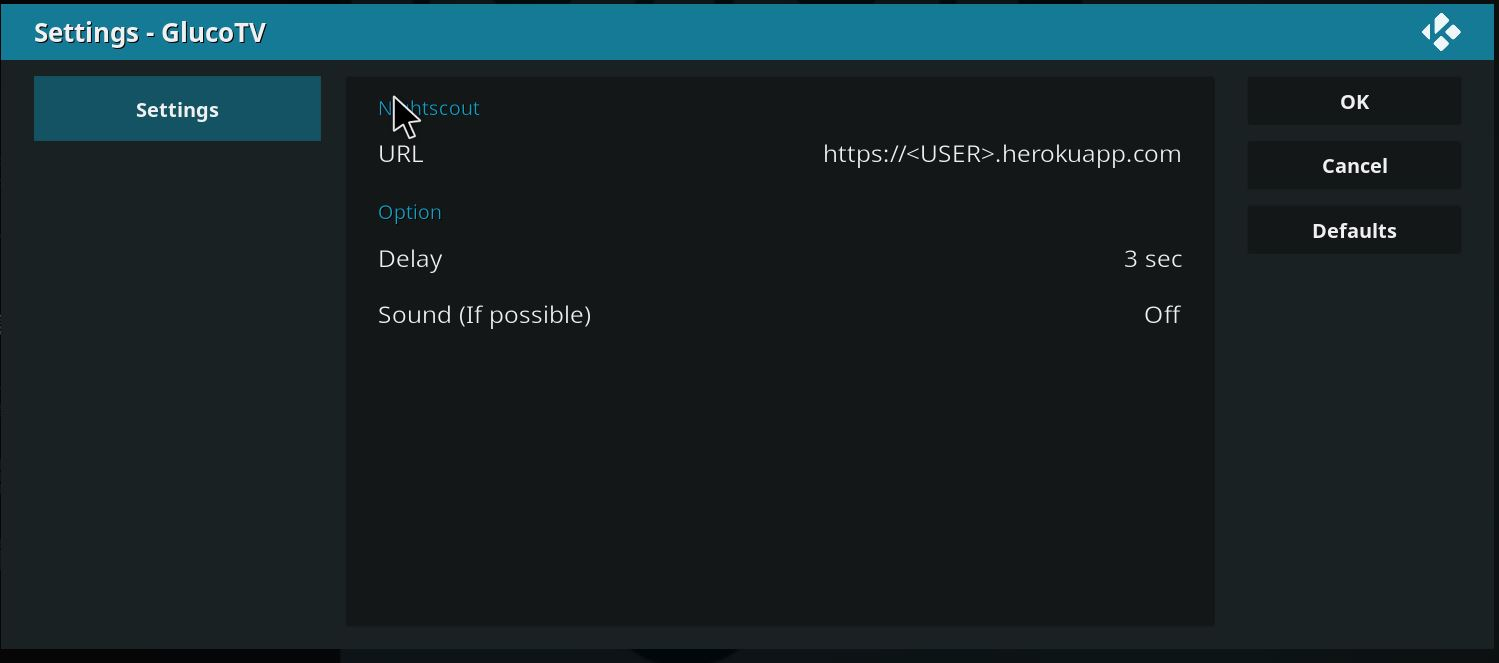
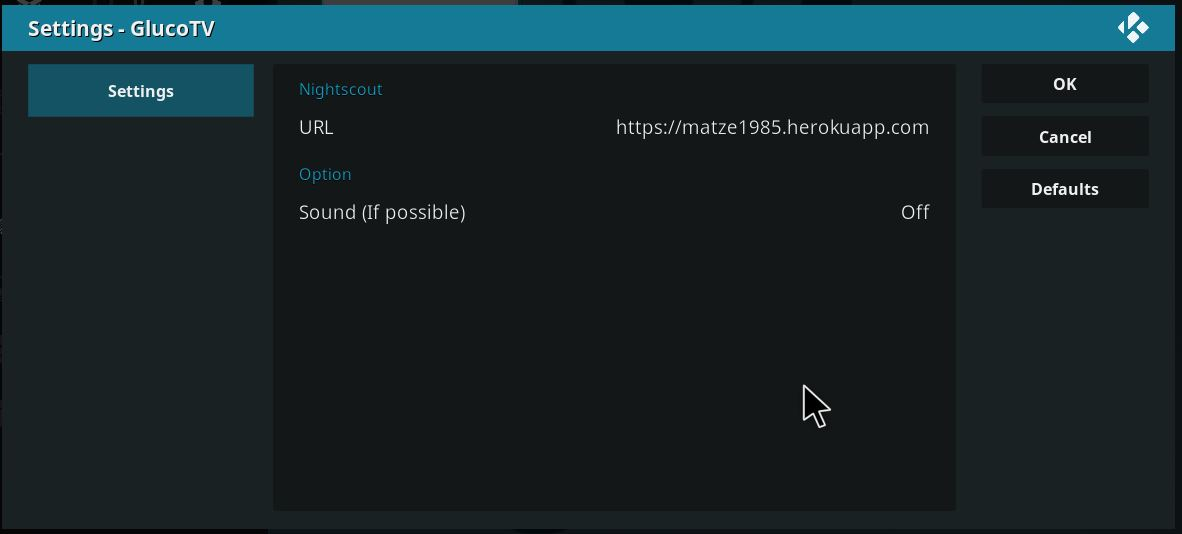
Version 0.1.1 * Better update interval for glucose

diff --git a/script.glucotv/addon.py b/script.glucotv/addon.py
@@ -2,7 +2,7 @@
 # -*- coding: utf-8 -*-
 
 import xbmc, xbmcaddon, xbmcgui
-import urllib2, json, sys
+import urllib2, json
 
 # Addon
 __addon__ = xbmcaddon.Addon()
@@ -16,43 +16,21 @@ xbmcgui.Dialog().notification(addonname, str('Add-on started ...'), xbmcgui.NOTI
 while 1:
 	# Settings
 	sNightscout = __addon__.getSetting('nightscout')
-	sDelay = __addon__.getSetting('delay')
 	sSound = __addon__.getSetting('sound')
 	sNotification = __addon__.getSetting('notification')
 
-	if sDelay == '1 sec':
-		iMsDelay = 1000
-	if sDelay == '2 sec':
-		iMsDelay = 2000
-	if sDelay == '3 sec':
-		iMsDelay = 3000
-	if sDelay == '4 sec':
-		iMsDelay = 4000
-	if sDelay == '5 sec':
-		iMsDelay = 5000
-	if sDelay == '6 sec':
-		iMsDelay = 6000
-	if sDelay == '7 sec':
-		iMsDelay = 7000
-	if sDelay == '8 sec':
-		iMsDelay = 8000
-	if sDelay == '9 sec':
-		iMsDelay = 9000
-	if sDelay == '10 sec':
-		iMsDelay = 10000
-
 	# Load JSON from url
 	try:
-		urlEntries = urllib2.urlopen(sNightscout + str('/api/v1/entries/sgv.json?count=3'))
+		urlEntries = urllib2.urlopen(sNightscout + str('/api/v1/entries/sgv.json?count=2'))
 		jsonEntries = json.load(urlEntries)	
 		urlStatus = urllib2.urlopen(sNightscout + str('/api/v1/status.json'))
 		jsonStatus = json.load(urlStatus)
 	except urllib2.HTTPError, e:
 		xbmcgui.Dialog().notification(addonname, str('HTTP-Error: ') + str(e.code), xbmcgui.NOTIFICATION_ERROR)
-		sys.exit()
+		#sys.exit()
 	except urllib2.URLError, e:
 		xbmcgui.Dialog().notification(addonname, str('URL-Error: ') + str(e.args), xbmcgui.NOTIFICATION_ERROR)
-		sys.exit()
+		#sys.exit()
 
 	# Read glucose values
 	iSgv = int(jsonEntries[0]['sgv'])
@@ -64,18 +42,18 @@ while 1:
 	iServerTimeEpoch = int(jsonStatus['serverTimeEpoch'])
 	
 	# Calculate and strings
-	iMsServerTimeEpochDate = iServerTimeEpoch - iDate
-	iMsInterval = iDate - iLastDate
-	iMinInterval = iMsInterval / 60000 + 1
-	iMinSecondInterval = iMinInterval * 2
-	iMin = iMsServerTimeEpochDate / 60000
+	iMsServerTimeEpochDate = int(iServerTimeEpoch - iDate)
+	iMsInterval = int(iDate - iLastDate)
+	iMinInterval = int(iMsInterval / 60000 + 1)
+	iMinSecondInterval = int(iMinInterval * 2)
+	iMin = int(iMsServerTimeEpochDate / 60000)
 
 	# Calculate ms for sleep 
 	iMsWait = ''
 	if iMin == 0:
-		iMsWait = 60000 - iMsServerTimeEpochDate
+		iMsWait = int(60000 - iMsServerTimeEpochDate)
 	else:
-		iMsWait = iMsServerTimeEpochDate / iMin
+		iMsWait = int(iMsServerTimeEpochDate / iMin)
 
 	sStatus = str(jsonStatus['status'])
 	sName = str(jsonStatus['name'])
@@ -88,7 +66,7 @@ while 1:
 	iBgLow = int(jsonStatus['settings']['thresholds']['bgLow'])
 
 	# Check status of Nightscout
-	if sStatus <> str('ok'):
+	if 'ok' not in sStatus:
 		xbmcgui.Dialog().notification(addonname, str('Please check the settings and the availability of URL! • ') + str('Status: [' + sStatus + ']'), xbmcgui.NOTIFICATION_ERROR)
 
 	# Check if sUnits: mmol
@@ -107,7 +85,7 @@ while 1:
 	sDirection = str(jsonEntries[0]['direction'])
 	if i_fSgv < i_fLastSgv:
 		if sDirection == str('FortyFiveUp') or sDirection == str('SingleUp') or sDirection == str('DoubleUp'):
-			sTmpDelta = str(i_fDelta.replace('-', ''))
+			sTmpDelta = sTmpDelta.replace('-', '')
 			i_fDelta = float(sTmpDelta)
 	
 	sDelta = ''
@@ -116,7 +94,13 @@ while 1:
 	if i_fDelta == 0:
 		sDelta = str('±')
 
+	if sUnits == str('mg/dl'):
+		i_fDelta = int(i_fDelta)
+	else:
+		i_fDelta = round(i_fDelta, 1)
+
 	# Notification
+	sMin = str(iMin)
 	sGlucose = str(i_fSgv) + str(' ') + sUnits + str(' • ') + sDelta + str(i_fDelta)
 	sJustNow = str('just now')
 	sMinAgo = str(iMin) + str(' min ago')
@@ -134,16 +118,21 @@ while 1:
 	bSound = False
 	if sSound == str('On'):
 		bSound = True
-	
-	# Check of glucose
-	sMin = str(iMin)
 
+	# Check of glucose after every interval for new updates
+	if sMin.endswith(str(iMinInterval)[-1:]) or sMin.endswith(str(iMinSecondInterval)[-1:]):
+		for i in range(6):
+			xbmc.sleep(int(1000))
+			if iMin == 0:
+				break
+
+	# Check of glucose
 	if iMin == 0:
 		xbmcgui.Dialog().notification(sGlucose, sJustNow, addonicon, 5000, bSound)
 	if sMin.endswith(str(iMinInterval)[-1:]) or sMin.endswith(str(iMinSecondInterval)[-1:]) and iMin >= iMinInterval:
 		sMinAgo = sColorYellow + sMinAgo + sColor
 		xbmcgui.Dialog().notification(sGlucose, sMinAgo, addonicon, 5000, bSound)
-	xbmc.sleep(iMsWait + iMsDelay)
+	xbmc.sleep(int(iMsWait))
 	
 	# Close url
 	urlEntries.close()
